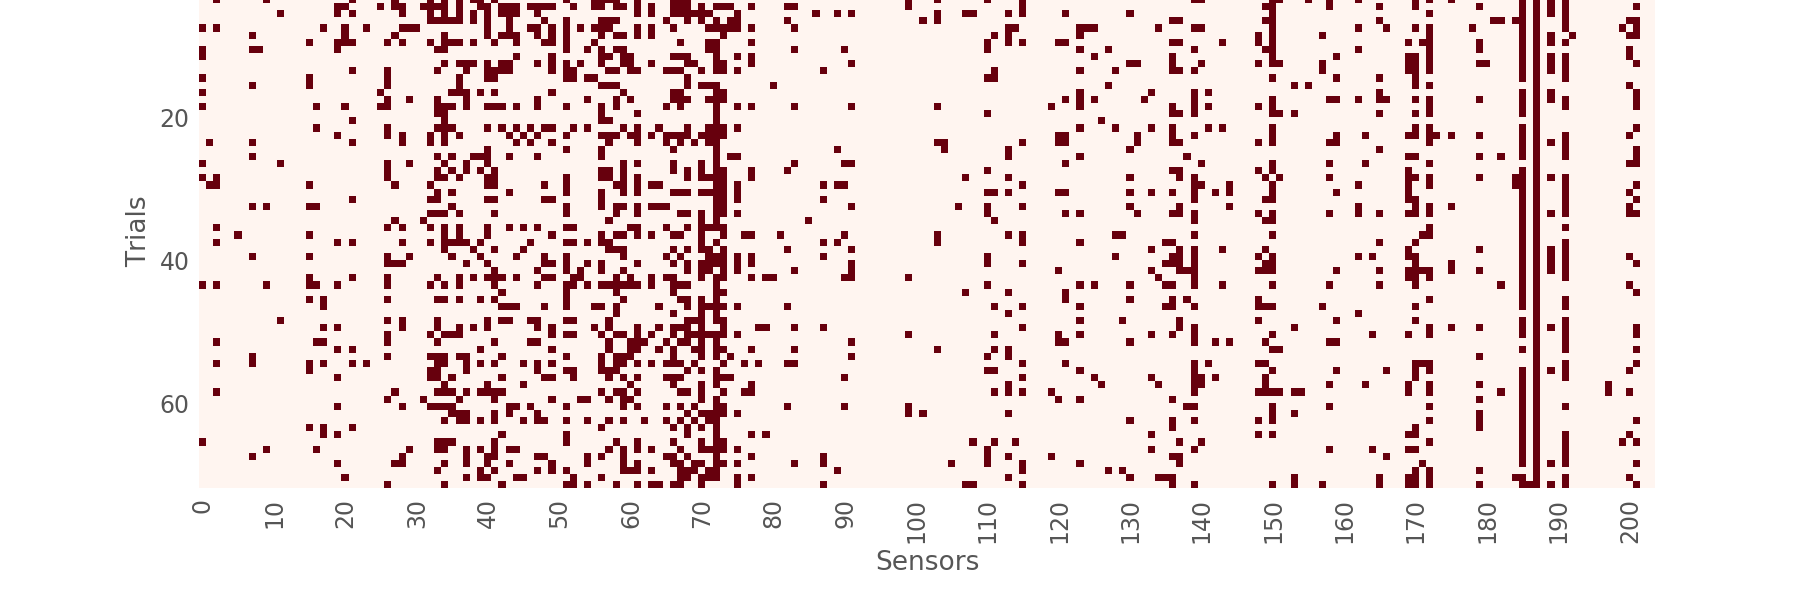
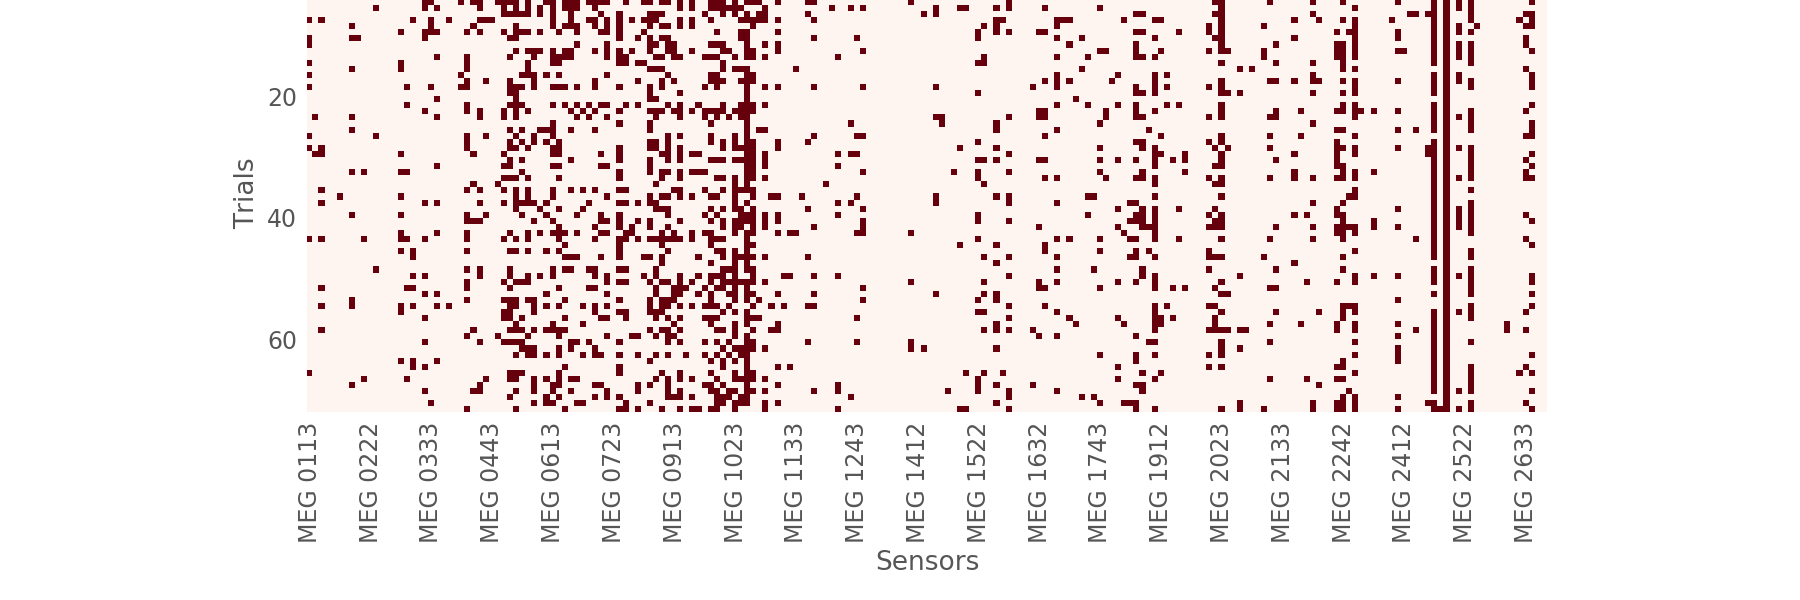
Make install

diff --git a/searchindex.js b/searchindex.js
@@ -1,1 +1,1 @@
-Search.setIndex({envversion:46,filenames:["api","auto_examples/index","auto_examples/plot_auto_repair","auto_examples/plot_channel_thresholds","auto_examples/plot_global_reject","auto_examples/plot_ransac","auto_examples/plot_visualize_bad_epochs","generated/autoreject.GlobalAutoReject","generated/autoreject.LocalAutoReject","generated/autoreject.LocalAutoRejectCV","generated/autoreject.Ransac","generated/autoreject.compute_thresholds","generated/autoreject.utils.fetch_file","generated/autoreject.utils.set_matplotlib_defaults","generated/autoreject.validation_curve","generated/autoreject.viz.plot_epochs","index"],objects:{"autoreject.GlobalAutoReject":{"__init__":[7,2,1,""]},"autoreject.LocalAutoReject":{"__init__":[8,2,1,""]},"autoreject.LocalAutoRejectCV":{"__init__":[9,2,1,""]},"autoreject.Ransac":{"__init__":[10,2,1,""]},"autoreject.utils":{fetch_file:[12,1,1,""],set_matplotlib_defaults:[13,1,1,""]},"autoreject.viz":{plot_epochs:[15,1,1,""]},autoreject:{GlobalAutoReject:[7,0,1,""],LocalAutoReject:[8,0,1,""],LocalAutoRejectCV:[9,0,1,""],Ransac:[10,0,1,""],compute_thresholds:[11,1,1,""],validation_curve:[14,1,1,""]}},objnames:{"0":["py","class","Python class"],"1":["py","function","Python function"],"2":["py","method","Python method"]},objtypes:{"0":"py:class","1":"py:function","2":"py:method"},terms:{"02d_raw":6,"03d":6,"100mb":15,"150e":15,"1_sub016_raw":6,"1e13":3,"1e6":4,"200e":4,"20e":15,"40_raw":[2,3,4,5],"40e":[4,6],"5th":15,"6th":16,"80e":4,"__file__":6,"__init__":[7,8,9,10],"case":4,"class":[0,2,4,7,8,9,10],"default":[7,8,9,11,13,15],"final":[3,6],"float":[7,8,10,12],"function":[0,2,4,8,9,15],"import":[2,3,4,5,6,16],"int":[7,8,10,11,14,15],"long":6,"public":13,"return":[8,9],"true":[2,3,4,5,6,12,15],"try":[2,4,9,12],"while":[2,5,6],abnorm:10,add:15,add_eeg_ref:6,adjust:15,admin:16,after:[2,5,6],against:4,agre:8,alexandr:[5,10,16],all:[2,4,6,8,9,10,11,15],allow:6,along:12,alpha:3,also:[2,5,6,16],amazonaw:6,amount:15,anaconda:16,analysi:[5,10],ani:[15,16],append:6,appli:6,argmin:4,argument:6,arrai:[2,3,9,14,15],arrow:15,artifact:[5,10,16],arxiv:[5,10,16],as_matrix:6,attribut:[8,9],auditori:[2,3,5],augment:2,author:[2,3,4,5,6],auto:[4,15],autom:[5,10,16],automat:[],autoreject:[],averag:[2,5,6],axi:[2,3,4,5],axvlin:4,backend:15,bad:[],bad_chs_:5,bad_epochs_idx:[6,15],bad_log:5,bad_seg:2,band:6,base_path:6,baselin:[2,3,4,5,6],bayesian_optim:[8,9,11],becaus:[2,5],been:6,befor:[2,5,6],beforehand:15,bekhti:[5,10,16],best_thresh:4,between:15,bigd:[5,10],block:15,blue:6,boilerpl:7,bool:[12,15],both:[2,3,4,5],bottom:[2,3,4,5],bsd:[2,3,4,5,6],butterfli:15,call:15,callabl:[2,8,9],can:[2,3,4,5,6,10,11,15,16],candid:4,cbar:[2,5],ch_type:[5,10],channel:[],check:[6,16],check_random_st:2,chosen:6,chpi:15,claus:[2,3,4,5,6],clean:[6,16],click:15,close:15,cmap:[2,5],code:[2,3,4,5,6,16],coil:5,color:[3,4],color_cycl:4,com:[6,16],compens:[2,5],comput:[2,3,4,5,6,7,11,16],compute_threshold:[],concaten:6,concatenate_epoch:6,configur:15,consecut:6,consensu:10,consensus_perc:[2,6,8,9],contain:6,continu:6,contribut:16,copi:[6,16],correl:10,correspond:15,creat:[2,5,6],cross:[2,5,9,14],current:[2,5],curv:14,cut:10,data:[2,3,4,5,6,15,16],data_path:[2,3,4,5],dataset:[2,3,4,5],decim:6,defin:[2,3,4],delet:6,demonstr:[2,3,4,5,6],deni:[5,10,16],depend:[15,16],desktop:[2,5],detail:16,detect:[],determin:[2,14],detrend:[2,4,5],dev_head_t:6,dict:[2,5,6,15],differ:3,dirnam:6,disk:6,displai:15,distribut:16,doctest:16,doe:2,don:[2,5],dot:5,down:15,download:[2,3,4,5,6,12],drop:[2,5,15],ds117:6,ds117_r0:6,each:[2,5,6,11],easiest:16,ecg063:6,ecg:[6,15],eeg061:6,eeg062:6,eeg063:6,eeg064:6,eeg:[2,3,4,5,6,10,11,15,16],effici:9,egg:16,electroencephalographi:16,emg:15,end:15,engemann:[5,10,16],eog061:6,eog062:6,eog:[2,3,4,5,6,15],epochs_ar:6,epochs_clean:[2,5,16],error:16,estim:[2,6,14],evalu:14,event:[2,3,4,5,6],event_fnam:[2,3,4,5],event_id:[2,3,4,5],events_id:6,everyth:16,evok:[2,5,6],evoked_clean:[2,5],exact:2,exclud:[2,3,4,5,6],execut:15,exist:6,extens:5,extract:[3,6],extractal:6,eyeblink:6,f11:15,face:6,factor:15,fals:[2,3,4,5,6,8,9,10,11,15],familiar:5,famou:6,federico:[5,10,16],fetch_fil:[],field:15,fif:[2,3,4,5,6],fig:[2,5,15],figsiz:[2,3,4,5],figur:[2,3,4,5,15],file:[2,5,6,12],file_nam:12,filter:6,find:[],find_ev:6,fine:16,first:[2,3,6,16],fit:[9,14],fit_predict:[],fit_transform:[2,5,6,16],fix_log:[6,15],flag:16,fly:15,fold:2,follow:[4,16],format:6,found:[3,6,14],fow:16,fraction:[8,10],from:[2,3,4,5,6,16],frontier:[5,10],full:15,functool:[2,6],futur:16,gener:[11,14],get:[5,16],get_xticklabel:[2,5],get_yticklabel:[2,5],getmemb:6,git:16,github:16,github_repo:[2,5],give:16,global:[],globalautoreject:[],good:15,grad:[2,3,5,15],grade:[2,5],gramfort:[5,10,16],green:15,guarante:16,h_trans_bandwidth:6,halt:15,happen:16,have:[3,6,10,16],heatmap:[2,5],hist:3,histogram:3,home:[2,5,15],how:[2,3,4,5,6],http:[6,16],human_thresh:4,idl:[2,5],immedi:6,implement:[5,10,14,16],includ:[2,3,4,5,15],increas:6,inde:3,indic:15,info:[2,3,4,5,6],instanc:[8,9,11,13,14,15],instanti:[2,5],instead:6,intend:16,intern:[2,16],interpol:[2,5,6,8,15],interpolate_bad:5,ipynb:[2,3,4,5,6],ipython:[2,3,4,5,6],issu:16,item:[2,5],iter:14,job:10,joblib:[],join:[5,6],just:[2,5],kei:15,l_trans_bandwidth:6,label:[4,14],larg:[5,10],learn:[2,4,9,16],left:[2,3,4,5,15],legend:4,length:[6,10],less:[2,6],let:[2,3,4,5,6],level:[],librari:16,licens:[2,3,4,5,6],like:[2,4,15],line:[15,16],linestyl:4,linewidth:4,linspac:[2,4,9],list:[2,5,6],load:[3,6,12,15],loc:4,local_ar:9,localautorejectcv:[],mag:15,magneto:16,mai:6,main:15,mainak:[2,3,4,5,6,10,16],make:[2,5,16],manual:[2,4,5],map:5,mark:[2,5,15],markeredgecolor:4,markeredgewidth:4,markerfacecolor:4,markers:4,match:15,math:[],matplotlib:[2,3,4,5,13,15,16],matrix:5,mean:4,meg:[2,3,4,5,6,10,16],member:6,memori:6,messag:[8,9,10,11,16],method:[2,3,5,7,8,9,10,11,14],min_channel:10,min_corr:10,min_dur:6,minut:[2,3,4,5,6],misc:[6,15],miss:5,mne:[2,3,4,5,6,8,9,10,11,14,16],mode:15,more:[2,16],mous:15,mpl:15,multipl:16,must:[2,3,8,11,14],n_channel:[7,15],n_consensu:9,n_epoch:15,n_interp:[2,9],n_interpol:[2,6,8,9],n_job:[6,10],n_resampl:10,n_time:7,name:[12,14,15],navig:15,necessari:6,need:[12,16],neighbour:10,neuroimag:16,neuroinformat:[5,10],next:4,nice:16,nima:[5,10],none:[2,3,4,5,6,7,8,9,11,14,15],note:5,notebook:[2,3,4,5,6],now:[2,3,4,5,6,16],number:[2,3,6,7,8,10,11,15],numpi:[2,3,4,16],object:[8,9,11,14,15,16],off:[2,3,4,5,10],onli:[2,5,15],onset:6,open:[2,5,6,12],openfmri:6,optim:[2,16],option:[12,14,16],org:[],origin:5,our:3,out:[2,5,6,16],output:[8,9,10,11],over:3,page:15,panda:16,parallel:10,param:[2,5],param_nam:[4,14],param_rang:[4,14],paramet:[2,14,15],paristech:[2,3,4,5,6],partial:[2,6,12],particular:[2,4],pass:6,path:[6,12],pattern:16,pca:[2,5],peak:4,per:[],percentag:8,percentil:15,pick:[2,3,4,5,6,15],pick_typ:[2,3,4,5,6],pip:16,pipelin:[5,10,16],plot:[],plot_auto_repair:2,plot_channel_threshold:3,plot_epoch:[],plot_global_reject:4,plot_ransac:5,plot_visualize_bad_epoch:6,plt:[2,3,4,5,13],point:7,poor:10,predict:[10,14],preload:[2,3,4,5,6,15],prep:[5,10,16],prepar:5,preprint:[5,10,16],preprocess:[5,10],preselect:2,print:[5,6],privileg:16,prni:16,process:6,product:5,program:15,progress:[8,9,10,11],progressbar:[8,9,10,11,16],proj:[2,5,6],project:[2,5],provid:[2,16],pseudo:11,purpos:[2,5],pyplot:[2,3,4,5,13],python:[2,3,4,5,6,16],qualiti:13,raimondo:[5,10,16],random:[10,11],random_search:[2,3,11],random_st:[2,3,6,11],randomst:11,rang:[2,3,4,5,6],ransac:[],raw:[2,3,4,5,6],raw_fnam:[2,3,4,5],rcparam:4,read:[2,5,6,16],read_ev:[2,3,4,5],read_raw_fif:[2,3,4,5,6],readi:[2,5],recognit:16,recommend:16,reconstruct:10,rect:[2,5],red:[2,5,6,15],ref_meg:15,refer:[2,5],relat:[2,5],remov:[2,5,6],rename_channel:6,repair:[],request:12,requir:2,resampl:10,reset_bad:[],resp:15,rest:2,result:[2,5],resum:12,right:[2,3,4,5,15],rmse:4,robust:10,root:4,rotat:[2,5],rsc:16,run:[2,3,4,5,6],run_:6,run_fnam:6,same:[6,16],sampl:[2,3,4,5,6,10],sample_audvis_filt:[2,3,4,5],saniti:6,save:12,scale:[3,4,5,6,10,15],scikit:[4,9,16],scipi:16,score:4,scrambl:6,screen:15,script:[2,3,4,5,6,16],seaborn:[2,5],sec:[2,5,6],second:[2,3,4,5,6],see:6,seed:11,segment:15,select:[3,6,15],sensor:[],set:[2,5,6,10,13,15],set_channel_typ:6,set_eeg_refer:6,set_matplotlib_default:[],set_titl:[2,5],set_xlabel:[2,5],set_ylabel:[2,5],setp:[2,5],shall:[2,5],shamlo:[5,10],shape:15,should:[15,16],show:[2,3,4,5,15],side:15,signal:3,skip:16,some:[2,5],sourc:[2,3,4,5,6],spatial_color:6,squar:[2,4,5],src_url:6,standard:[5,10],start:[6,16],sti101:6,stim:[2,3,4,5,6,15],stim_channel:6,stimuli:6,str:[10,11,14,15],strategi:14,string:12,sub016:6,sub:6,subject:6,subject_id:6,subplot:[2,5],subset:15,support:16,suppress:[8,9,10,11],take:6,tar:6,tarbal:6,tarfil:6,target:6,telecom:[2,3,4,5,6],test_scor:4,tgz:6,than:[2,16],them:[5,6],therefor:[2,5],thi:[2,3,4,5,6,11,15,16],thing:[2,5],this_epoch:6,three:16,thresh:[3,4,7],thresh_func:[2,6,8,9],threshold:[],tick_param:[2,3,4,5],tight_layout:[2,3,4,5],time:[2,3,4,5,6,7,10],timeout:12,titl:[6,15],tkagg:15,tmax:[2,3,4,5,6],tmin:[2,3,4,5,6],toggl:15,top:[2,3,4,5,15],total:[2,3,4,5,6,8],tqdm:[3,5,6,8,9,10,11,16],tqdm_notebook:[8,9,10,11,16],trace:15,tracker:16,trial:[],trigger:[3,6],truncat:5,type:[2,5,16],unbroken_tim:10,unfamiliar:6,unit:[3,4],until:15,upgrad:16,upper:4,url:12,user:16,valid:[2,9,14],validation_curv:[],valu:[2,4,9,14],vari:14,verbos:[2,3,4,5,6,8,9,10,11,16],verifi:3,vertic:15,view:15,wai:[11,16],want:[2,5,16],welcom:16,well:[5,6,15],when:[2,5],where:12,whether:15,which:[2,3,4,5,6,8,9],whose:[11,14],window:15,window_s:10,wise:3,work:[5,15,16],workshop:16,worst:2,would:[2,4],wrt:10,xlabel:[3,4],xlim:[3,4],xticklabel:[2,5],xxx:6,yet:6,ylabel:[3,4],ylim:[2,5,6],you:16,your:16,yousra:[5,10,16],yticklabel:[2,5]},titles:["API Documentation","Examples Gallery","Automatically repair epochs","Plot channel-level thresholds","Find global rejection threshold","Detect bad sensors using RANSAC","Visualize bad sensors per trial","autoreject.GlobalAutoReject","autoreject.LocalAutoReject","autoreject.LocalAutoRejectCV","autoreject.Ransac","autoreject.compute_thresholds","autoreject.utils.fetch_file","autoreject.utils.set_matplotlib_defaults","autoreject.validation_curve","autoreject.viz.plot_epochs","autoreject"],titleterms:{api:0,automat:2,autoreject:[7,8,9,10,11,12,13,14,15,16],bad:[5,6],bug:16,channel:3,cite:16,compute_threshold:11,detect:5,document:0,epoch:[0,2],exampl:1,fetch_fil:12,find:4,galleri:1,global:4,globalautoreject:7,instal:16,level:3,localautoreject:8,localautorejectcv:9,per:6,plot:3,plot_epoch:15,quickstart:16,ransac:[5,10],reject:[0,4],repair:2,report:16,sensor:[5,6],set_matplotlib_default:13,threshold:[3,4],trial:6,util:[0,12,13],validation_curv:14,visual:[0,6],viz:15}})
+Search.setIndex({envversion:46,filenames:["api","auto_examples/index","auto_examples/plot_auto_repair","auto_examples/plot_channel_thresholds","auto_examples/plot_global_reject","auto_examples/plot_ransac","auto_examples/plot_visualize_bad_epochs","generated/autoreject.GlobalAutoReject","generated/autoreject.LocalAutoReject","generated/autoreject.LocalAutoRejectCV","generated/autoreject.Ransac","generated/autoreject.compute_thresholds","generated/autoreject.utils.fetch_file","generated/autoreject.utils.set_matplotlib_defaults","generated/autoreject.validation_curve","generated/autoreject.viz.plot_epochs","index"],objects:{"autoreject.GlobalAutoReject":{"__init__":[7,2,1,""]},"autoreject.LocalAutoReject":{"__init__":[8,2,1,""]},"autoreject.LocalAutoRejectCV":{"__init__":[9,2,1,""]},"autoreject.Ransac":{"__init__":[10,2,1,""]},"autoreject.utils":{fetch_file:[12,1,1,""],set_matplotlib_defaults:[13,1,1,""]},"autoreject.viz":{plot_epochs:[15,1,1,""]},autoreject:{GlobalAutoReject:[7,0,1,""],LocalAutoReject:[8,0,1,""],LocalAutoRejectCV:[9,0,1,""],Ransac:[10,0,1,""],compute_thresholds:[11,1,1,""],validation_curve:[14,1,1,""]}},objnames:{"0":["py","class","Python class"],"1":["py","function","Python function"],"2":["py","method","Python method"]},objtypes:{"0":"py:class","1":"py:function","2":"py:method"},terms:{"02d_raw":6,"03d":6,"100mb":15,"150e":15,"1_sub016_raw":6,"1e13":3,"1e6":4,"200e":4,"20e":15,"40_raw":[2,3,4,5],"40e":[4,6],"5th":15,"6th":16,"80e":4,"__file__":6,"__init__":[7,8,9,10],"case":4,"class":[0,2,4,7,8,9,10],"default":[7,8,9,11,13,15],"final":[3,6],"float":[7,8,10,12],"function":[0,2,4,8,9,15],"import":[2,3,4,5,6,16],"int":[7,8,10,11,14,15],"long":6,"public":13,"return":[8,9],"true":[2,3,4,5,6,12,15],"try":[2,4,9,12],"while":[2,5,6],abnorm:10,add:15,add_eeg_ref:6,adjust:15,admin:16,after:[2,5,6],against:4,agre:8,alexandr:[5,10,16],all:[2,4,6,8,9,10,11,15],allow:6,along:12,alpha:3,also:[2,5,6,16],amazonaw:6,amount:15,anaconda:16,analysi:[5,10],ani:[15,16],append:6,appli:6,argmin:4,argument:6,arrai:[2,3,9,14,15],arrow:15,artifact:[5,10,16],arxiv:[5,10,16],as_matrix:6,attribut:[8,9],auditori:[2,3,5],augment:2,author:[2,3,4,5,6],auto:[4,15],autom:[5,10,16],automat:[],autoreject:[],averag:[2,5,6],axi:[2,3,4,5],axvlin:4,backend:15,bad:[],bad_chs_:5,bad_epochs_idx:[6,15],bad_log:5,bad_seg:2,band:6,base_path:6,baselin:[2,3,4,5,6],bayesian_optim:[8,9,11],becaus:[2,5],been:6,befor:[2,5,6],beforehand:15,bekhti:[5,10,16],best_thresh:4,between:15,bigd:[5,10],block:15,blue:6,boilerpl:7,bool:[12,15],both:[2,3,4,5],bottom:[2,3,4,5],bsd:[2,3,4,5,6],butterfli:15,call:15,callabl:[2,8,9],can:[2,3,4,5,6,10,11,15,16],candid:4,cbar:[2,5],ch_name:5,ch_type:[5,10],channel:[],check:[6,16],check_random_st:2,chosen:6,chpi:15,claus:[2,3,4,5,6],clean:[6,16],click:15,close:15,cmap:[2,5],code:[2,3,4,5,6,16],coil:5,color:[3,4],color_cycl:4,com:[6,16],compens:[2,5],comput:[2,3,4,5,6,7,11,16],compute_threshold:[],concaten:6,concatenate_epoch:6,configur:15,consecut:6,consensu:10,consensus_perc:[2,6,8,9],contain:6,continu:6,contribut:16,copi:[6,16],correl:10,correspond:15,creat:[2,5,6],cross:[2,5,9,14],current:[2,5],curv:14,cut:10,data:[2,3,4,5,6,15,16],data_path:[2,3,4,5],dataset:[2,3,4,5],decim:6,defin:[2,3,4],delet:6,demonstr:[2,3,4,5,6],deni:[5,10,16],depend:[15,16],desktop:[2,5],detail:16,detect:[],determin:[2,14],detrend:[2,4,5],dev_head_t:6,dict:[2,5,6,15],differ:3,dirnam:6,disk:6,displai:15,distribut:16,doctest:16,doe:2,don:[2,5],dot:5,down:15,download:[2,3,4,5,6,12],drop:[2,5,15],ds117:6,ds117_r0:6,each:[2,5,6,11],easiest:16,ecg063:6,ecg:[6,15],eeg061:6,eeg062:6,eeg063:6,eeg064:6,eeg:[2,3,4,5,6,10,11,15,16],effici:9,egg:16,electroencephalographi:16,emg:15,end:15,engemann:[5,10,16],eog061:6,eog062:6,eog:[2,3,4,5,6,15],epochs_ar:6,epochs_clean:[2,5,16],error:16,estim:[2,6,14],evalu:14,event:[2,3,4,5,6],event_fnam:[2,3,4,5],event_id:[2,3,4,5],events_id:6,everyth:16,evok:[2,5,6],evoked_clean:[2,5],exact:2,exclud:[2,3,4,5,6],execut:15,exist:6,extens:5,extract:[3,6],extractal:6,eyeblink:6,f11:15,face:6,factor:15,fals:[2,3,4,5,6,8,9,10,11,15],familiar:5,famou:6,federico:[5,10,16],fetch_fil:[],field:15,fif:[2,3,4,5,6],fig:[2,5,15],figsiz:[2,3,4,5],figur:[2,3,4,5,15],file:[2,5,6,12],file_nam:12,filter:6,find:[],find_ev:6,fine:16,first:[2,3,6,16],fit:[9,14],fit_predict:[],fit_transform:[2,5,6,16],fix_log:[6,15],flag:16,fly:15,fold:2,follow:[4,16],format:6,found:[3,6,14],fow:16,fraction:[8,10],from:[2,3,4,5,6,16],frontier:[5,10],full:15,functool:[2,6],futur:16,gener:[11,14],get:[5,16],get_xtick:5,get_xticklabel:[2,5],get_yticklabel:[2,5],getmemb:6,git:16,github:16,github_repo:[2,5],give:16,global:[],globalautoreject:[],good:15,grad:[2,3,5,15],grade:[2,5],gramfort:[5,10,16],green:15,guarante:16,h_trans_bandwidth:6,halt:15,happen:16,have:[3,6,10,16],heatmap:[2,5],hist:3,histogram:3,home:[2,5,15],how:[2,3,4,5,6],http:[6,16],human_thresh:4,idl:[2,5],immedi:6,implement:[5,10,14,16],includ:[2,3,4,5,15],increas:6,inde:3,indic:15,info:[2,3,4,5,6],instanc:[8,9,11,13,14,15],instanti:[2,5],instead:6,intend:16,intern:[2,16],interpol:[2,5,6,8,15],interpolate_bad:5,ipynb:[2,3,4,5,6],ipython:[2,3,4,5,6],issu:16,item:[2,5],iter:14,job:10,joblib:[],join:[5,6],just:[2,5],kei:15,l_trans_bandwidth:6,label:[4,14],larg:[5,10],learn:[2,4,9,16],left:[2,3,4,5,15],legend:4,length:[6,10],less:[2,6],let:[2,3,4,5,6],level:[],librari:16,licens:[2,3,4,5,6],like:[2,4,15],line:[15,16],linestyl:4,linewidth:4,linspac:[2,4,9],list:[2,5,6],load:[3,6,12,15],loc:4,local_ar:9,localautorejectcv:[],mag:15,magneto:16,mai:6,main:15,mainak:[2,3,4,5,6,10,16],make:[2,5,16],manual:[2,4,5],map:5,mark:[2,5,15],markeredgecolor:4,markeredgewidth:4,markerfacecolor:4,markers:4,match:15,math:[],matplotlib:[2,3,4,5,13,15,16],matrix:5,mean:4,meg:[2,3,4,5,6,10,16],member:6,memori:6,messag:[8,9,10,11,16],method:[2,3,5,7,8,9,10,11,14],min_channel:10,min_corr:10,min_dur:6,minut:[2,3,4,5,6],misc:[6,15],miss:5,mne:[2,3,4,5,6,8,9,10,11,14,16],mode:15,more:[2,16],mous:15,mpl:15,multipl:16,must:[2,3,8,11,14],n_channel:[7,15],n_consensu:9,n_epoch:15,n_interp:[2,9],n_interpol:[2,6,8,9],n_job:[6,10],n_resampl:10,n_time:7,name:[12,14,15],navig:15,necessari:6,need:[12,16],neighbour:10,neuroimag:16,neuroinformat:[5,10],next:4,nice:16,nima:[5,10],none:[2,3,4,5,6,7,8,9,11,14,15],note:5,notebook:[2,3,4,5,6],now:[2,3,4,5,6,16],number:[2,3,6,7,8,10,11,15],numpi:[2,3,4,16],object:[8,9,11,14,15,16],off:[2,3,4,5,10],onli:[2,5,15],onset:6,open:[2,5,6,12],openfmri:6,optim:[2,16],option:[12,14,16],org:[],origin:5,our:3,out:[2,5,6,16],output:[8,9,10,11],over:3,page:15,panda:16,parallel:10,param:[2,5],param_nam:[4,14],param_rang:[4,14],paramet:[2,14,15],paristech:[2,3,4,5,6],partial:[2,6,12],particular:[2,4],pass:6,path:[6,12],pattern:16,pca:[2,5],peak:4,per:[],percentag:8,percentil:15,pick:[2,3,4,5,6,15],pick_typ:[2,3,4,5,6],pip:16,pipelin:[5,10,16],plot:[],plot_auto_repair:2,plot_channel_threshold:3,plot_epoch:[],plot_global_reject:4,plot_ransac:5,plot_visualize_bad_epoch:6,plt:[2,3,4,5,13],point:7,poor:10,predict:[10,14],preload:[2,3,4,5,6,15],prep:[5,10,16],prepar:5,preprint:[5,10,16],preprocess:[5,10],preselect:2,print:[5,6],privileg:16,prni:16,process:6,product:5,program:15,progress:[8,9,10,11],progressbar:[8,9,10,11,16],proj:[2,5,6],project:[2,5],provid:[2,16],pseudo:11,purpos:[2,5],pyplot:[2,3,4,5,13],python:[2,3,4,5,6,16],qualiti:13,raimondo:[5,10,16],random:[10,11],random_search:[2,3,11],random_st:[2,3,6,11],randomst:11,rang:[2,3,4,5,6],ransac:[],raw:[2,3,4,5,6],raw_fnam:[2,3,4,5],rcparam:4,read:[2,5,6,16],read_ev:[2,3,4,5],read_raw_fif:[2,3,4,5,6],readi:[2,5],recognit:16,recommend:16,reconstruct:10,rect:[2,5],red:[2,5,6,15],ref_meg:15,refer:[2,5],relat:[2,5],remov:[2,5,6],rename_channel:6,repair:[],request:12,requir:2,resampl:10,reset_bad:[],resp:15,rest:2,result:[2,5],resum:12,right:[2,3,4,5,15],rmse:4,robust:10,root:4,rotat:[2,5],rsc:16,run:[2,3,4,5,6],run_:6,run_fnam:6,same:[6,16],sampl:[2,3,4,5,6,10],sample_audvis_filt:[2,3,4,5],saniti:6,save:12,scale:[3,4,5,6,10,15],scikit:[4,9,16],scipi:16,score:4,scrambl:6,screen:15,script:[2,3,4,5,6,16],seaborn:[2,5],sec:[2,5,6],second:[2,3,4,5,6],see:6,seed:11,segment:15,select:[3,6,15],sensor:[],set:[2,5,6,10,13,15],set_channel_typ:6,set_eeg_refer:6,set_matplotlib_default:[],set_titl:[2,5],set_xlabel:[2,5],set_ylabel:[2,5],setp:[2,5],shall:[2,5],shamlo:[5,10],shape:15,should:[15,16],show:[2,3,4,5,15],side:15,signal:3,skip:16,some:[2,5],sourc:[2,3,4,5,6],spatial_color:6,squar:[2,4,5],src_url:6,standard:[5,10],start:[6,16],sti101:6,stim:[2,3,4,5,6,15],stim_channel:6,stimuli:6,str:[10,11,14,15],strategi:14,string:12,sub016:6,sub:6,subject:6,subject_id:6,subplot:[2,5],subset:15,support:16,suppress:[8,9,10,11],take:6,tar:6,tarbal:6,tarfil:6,target:6,telecom:[2,3,4,5,6],test_scor:4,tgz:6,than:[2,16],them:[5,6],therefor:[2,5],thi:[2,3,4,5,6,11,15,16],thing:[2,5],this_epoch:6,three:16,thresh:[3,4,7],thresh_func:[2,6,8,9],threshold:[],tick_param:[2,3,4,5],tight_layout:[2,3,4,5],time:[2,3,4,5,6,7,10],timeout:12,titl:[6,15],tkagg:15,tmax:[2,3,4,5,6],tmin:[2,3,4,5,6],toggl:15,top:[2,3,4,5,15],total:[2,3,4,5,6,8],tqdm:[3,5,6,8,9,10,11,16],tqdm_notebook:[8,9,10,11,16],trace:15,tracker:16,trial:[],trigger:[3,6],truncat:5,type:[2,5,16],unbroken_tim:10,unfamiliar:6,unit:[3,4],until:15,upgrad:16,upper:4,url:12,user:16,valid:[2,9,14],validation_curv:[],valu:[2,4,9,14],vari:14,verbos:[2,3,4,5,6,8,9,10,11,16],verifi:3,vertic:15,view:15,wai:[11,16],want:[2,5,16],welcom:16,well:[5,6,15],when:[2,5],where:12,whether:15,which:[2,3,4,5,6,8,9],whose:[11,14],window:15,window_s:10,wise:3,work:[5,15,16],workshop:16,worst:2,would:[2,4],wrt:10,xlabel:[3,4],xlim:[3,4],xtick:5,xticklabel:[2,5],xxx:6,yet:6,ylabel:[3,4],ylim:[2,5,6],you:16,your:16,yousra:[5,10,16],yticklabel:[2,5]},titles:["API Documentation","Examples Gallery","Automatically repair epochs","Plot channel-level thresholds","Find global rejection threshold","Detect bad sensors using RANSAC","Visualize bad sensors per trial","autoreject.GlobalAutoReject","autoreject.LocalAutoReject","autoreject.LocalAutoRejectCV","autoreject.Ransac","autoreject.compute_thresholds","autoreject.utils.fetch_file","autoreject.utils.set_matplotlib_defaults","autoreject.validation_curve","autoreject.viz.plot_epochs","autoreject"],titleterms:{api:0,automat:2,autoreject:[7,8,9,10,11,12,13,14,15,16],bad:[5,6],bug:16,channel:3,cite:16,compute_threshold:11,detect:5,document:0,epoch:[0,2],exampl:1,fetch_fil:12,find:4,galleri:1,global:4,globalautoreject:7,instal:16,level:3,localautoreject:8,localautorejectcv:9,per:6,plot:3,plot_epoch:15,quickstart:16,ransac:[5,10],reject:[0,4],repair:2,report:16,sensor:[5,6],set_matplotlib_default:13,threshold:[3,4],trial:6,util:[0,12,13],validation_curv:14,visual:[0,6],viz:15}})

diff --git a/auto_examples/plot_ransac.html b/auto_examples/plot_ransac.html
@@ -267,11 +267,13 @@ MEG 2523
 <span class="n">set_matplotlib_defaults</span><span class="p">(</span><span class="n">plt</span><span class="p">)</span>
 
 <span class="n">plt</span><span class="o">.</span><span class="n">figure</span><span class="p">(</span><span class="n">figsize</span><span class="o">=</span><span class="p">(</span><span class="mi">18</span><span class="p">,</span> <span class="mi">6</span><span class="p">))</span>
-<span class="n">ax</span> <span class="o">=</span> <span class="n">sns</span><span class="o">.</span><span class="n">heatmap</span><span class="p">(</span><span class="n">ransac</span><span class="o">.</span><span class="n">bad_log</span><span class="p">,</span> <span class="n">xticklabels</span><span class="o">=</span><span class="mi">10</span><span class="p">,</span> <span class="n">yticklabels</span><span class="o">=</span><span class="mi">20</span><span class="p">,</span> <span class="n">square</span><span class="o">=</span><span class="bp">True</span><span class="p">,</span>
+<span class="n">ax</span> <span class="o">=</span> <span class="n">sns</span><span class="o">.</span><span class="n">heatmap</span><span class="p">(</span><span class="n">ransac</span><span class="o">.</span><span class="n">bad_log</span><span class="p">,</span> <span class="n">yticklabels</span><span class="o">=</span><span class="mi">20</span><span class="p">,</span> <span class="n">square</span><span class="o">=</span><span class="bp">True</span><span class="p">,</span>
                  <span class="n">cbar</span><span class="o">=</span><span class="bp">False</span><span class="p">,</span> <span class="n">cmap</span><span class="o">=</span><span class="s1">&#39;Reds&#39;</span><span class="p">)</span>
 <span class="n">ax</span><span class="o">.</span><span class="n">set_xlabel</span><span class="p">(</span><span class="s1">&#39;Sensors&#39;</span><span class="p">)</span>
 <span class="n">ax</span><span class="o">.</span><span class="n">set_ylabel</span><span class="p">(</span><span class="s1">&#39;Trials&#39;</span><span class="p">)</span>
 
+<span class="n">plt</span><span class="o">.</span><span class="n">setp</span><span class="p">(</span><span class="n">ax</span><span class="p">,</span> <span class="n">xticks</span><span class="o">=</span><span class="n">ax</span><span class="o">.</span><span class="n">get_xticks</span><span class="p">()[::</span><span class="mi">10</span><span class="p">],</span>
+         <span class="n">xticklabels</span><span class="o">=</span><span class="n">epochs</span><span class="o">.</span><span class="n">info</span><span class="p">[</span><span class="s1">&#39;ch_names&#39;</span><span class="p">][::</span><span class="mi">10</span><span class="p">])</span>
 <span class="n">plt</span><span class="o">.</span><span class="n">setp</span><span class="p">(</span><span class="n">ax</span><span class="o">.</span><span class="n">get_yticklabels</span><span class="p">(),</span> <span class="n">rotation</span><span class="o">=</span><span class="mi">0</span><span class="p">)</span>
 <span class="n">plt</span><span class="o">.</span><span class="n">setp</span><span class="p">(</span><span class="n">ax</span><span class="o">.</span><span class="n">get_xticklabels</span><span class="p">(),</span> <span class="n">rotation</span><span class="o">=</span><span class="mi">90</span><span class="p">)</span>
 <span class="n">plt</span><span class="o">.</span><span class="n">tight_layout</span><span class="p">(</span><span class="n">rect</span><span class="o">=</span><span class="p">[</span><span class="bp">None</span><span class="p">,</span> <span class="bp">None</span><span class="p">,</span> <span class="bp">None</span><span class="p">,</span> <span class="mf">1.1</span><span class="p">])</span>
@@ -280,7 +282,7 @@ MEG 2523
 </div>
 <img alt="../_images/sphx_glr_plot_ransac_002.png" class="align-center" src="../_images/sphx_glr_plot_ransac_002.png" />
 <p><strong>Total running time of the script:</strong>
-(0 minutes 13.384 seconds)</p>
+(0 minutes 14.262 seconds)</p>
 <div class="sphx-glr-download container">
 <strong>Download Python source code:</strong> <a class="reference download internal" href="../_downloads/plot_ransac.py"><code class="xref download docutils literal"><span class="pre">plot_ransac.py</span></code></a></div>
 <div class="sphx-glr-download container">

diff --git a/_downloads/plot_ransac.py b/_downloads/plot_ransac.py
@@ -113,16 +113,17 @@ plt.tight_layout()
 ###############################################################################
 # To top things up, we can also visualize the bad sensors for each trial using
 # :func:`seaborn.heatmap`.
-
 import seaborn as sns
 set_matplotlib_defaults(plt)
 
 plt.figure(figsize=(18, 6))
-ax = sns.heatmap(ransac.bad_log, xticklabels=10, yticklabels=20, square=True,
+ax = sns.heatmap(ransac.bad_log, yticklabels=20, square=True,
                  cbar=False, cmap='Reds')
 ax.set_xlabel('Sensors')
 ax.set_ylabel('Trials')
 
+plt.setp(ax, xticks=ax.get_xticks()[::10],
+         xticklabels=epochs.info['ch_names'][::10])
 plt.setp(ax.get_yticklabels(), rotation=0)
 plt.setp(ax.get_xticklabels(), rotation=90)
 plt.tight_layout(rect=[None, None, None, 1.1])
